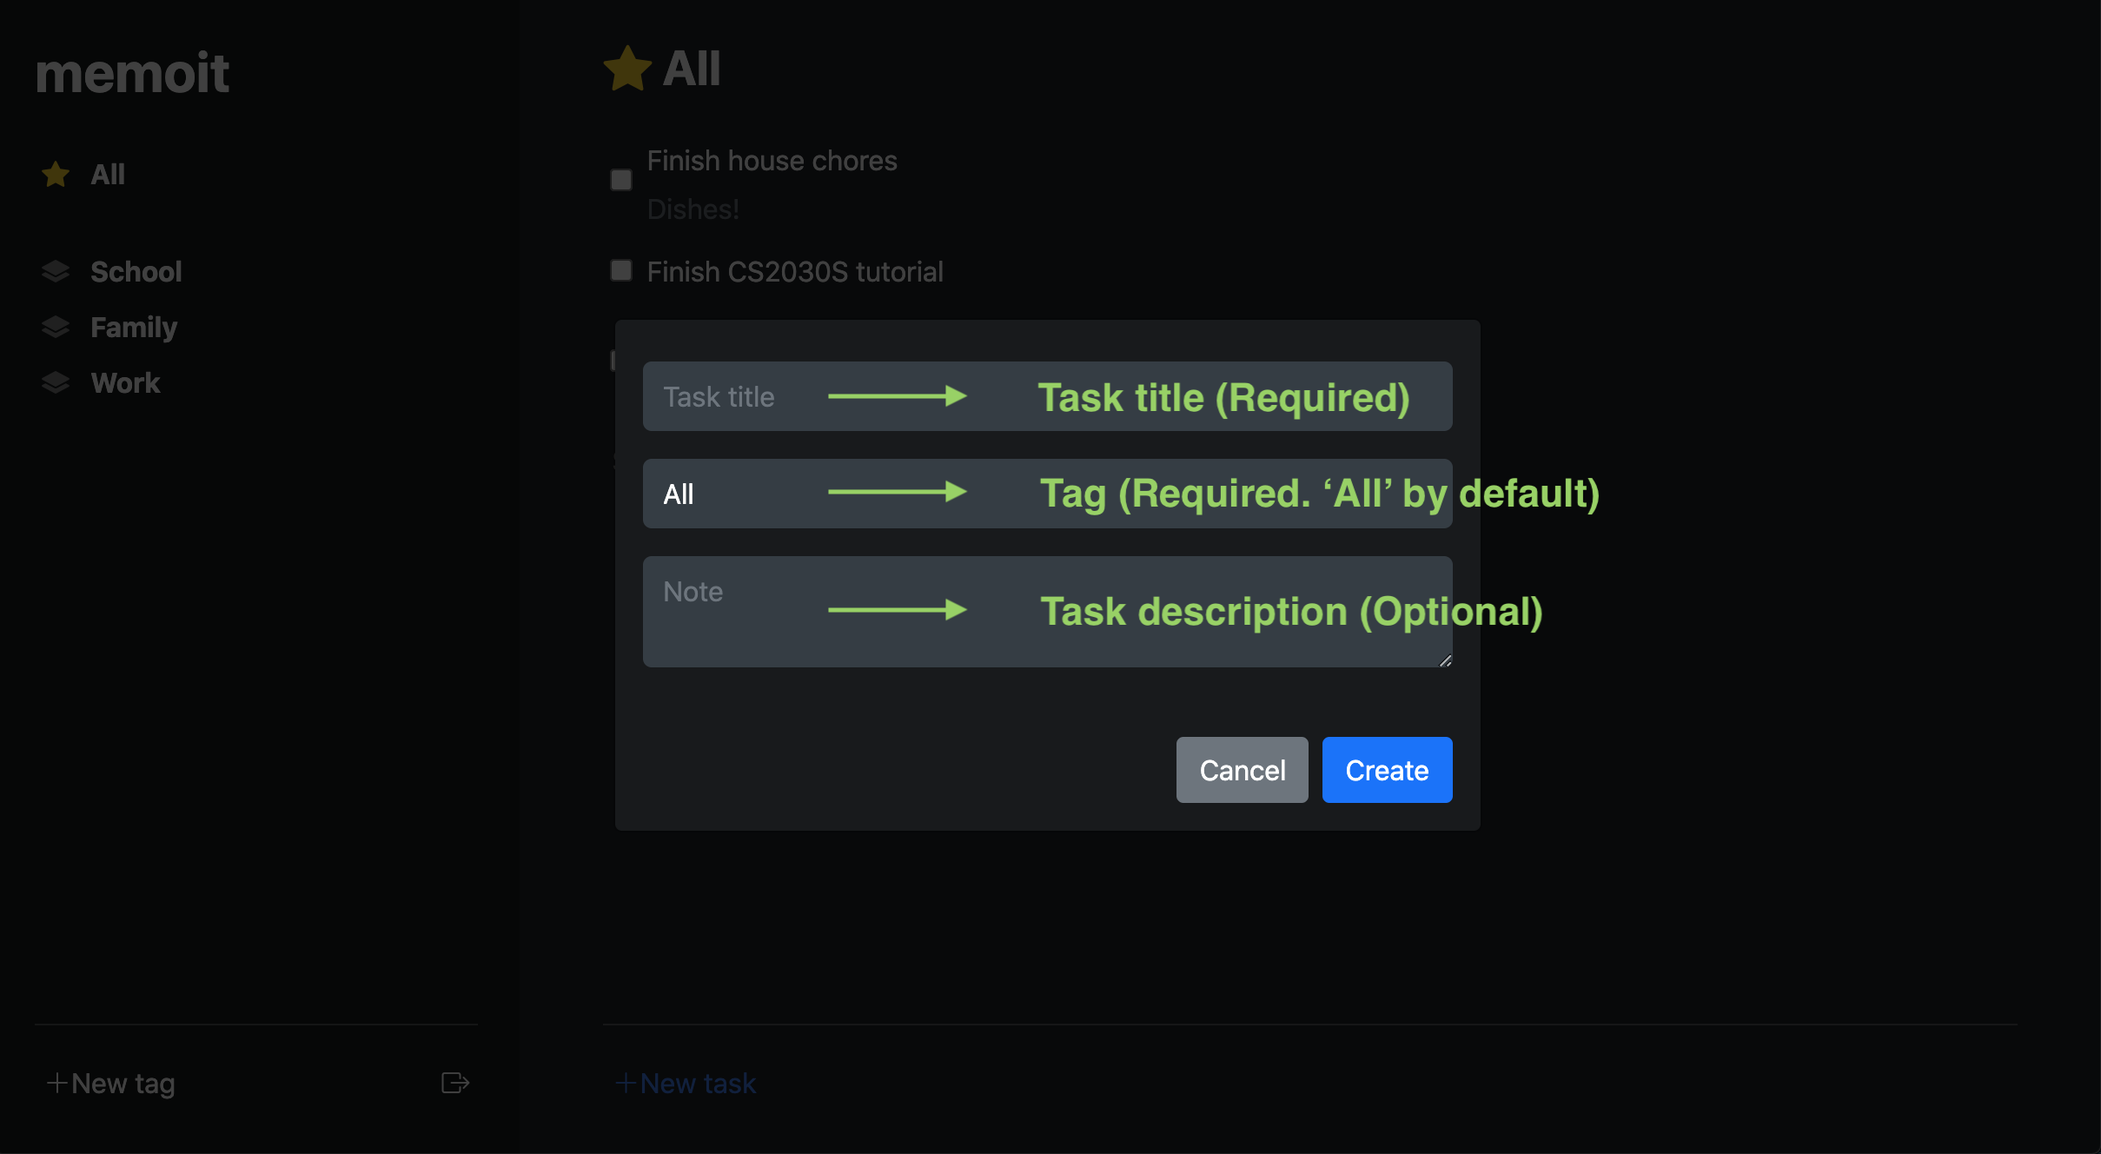
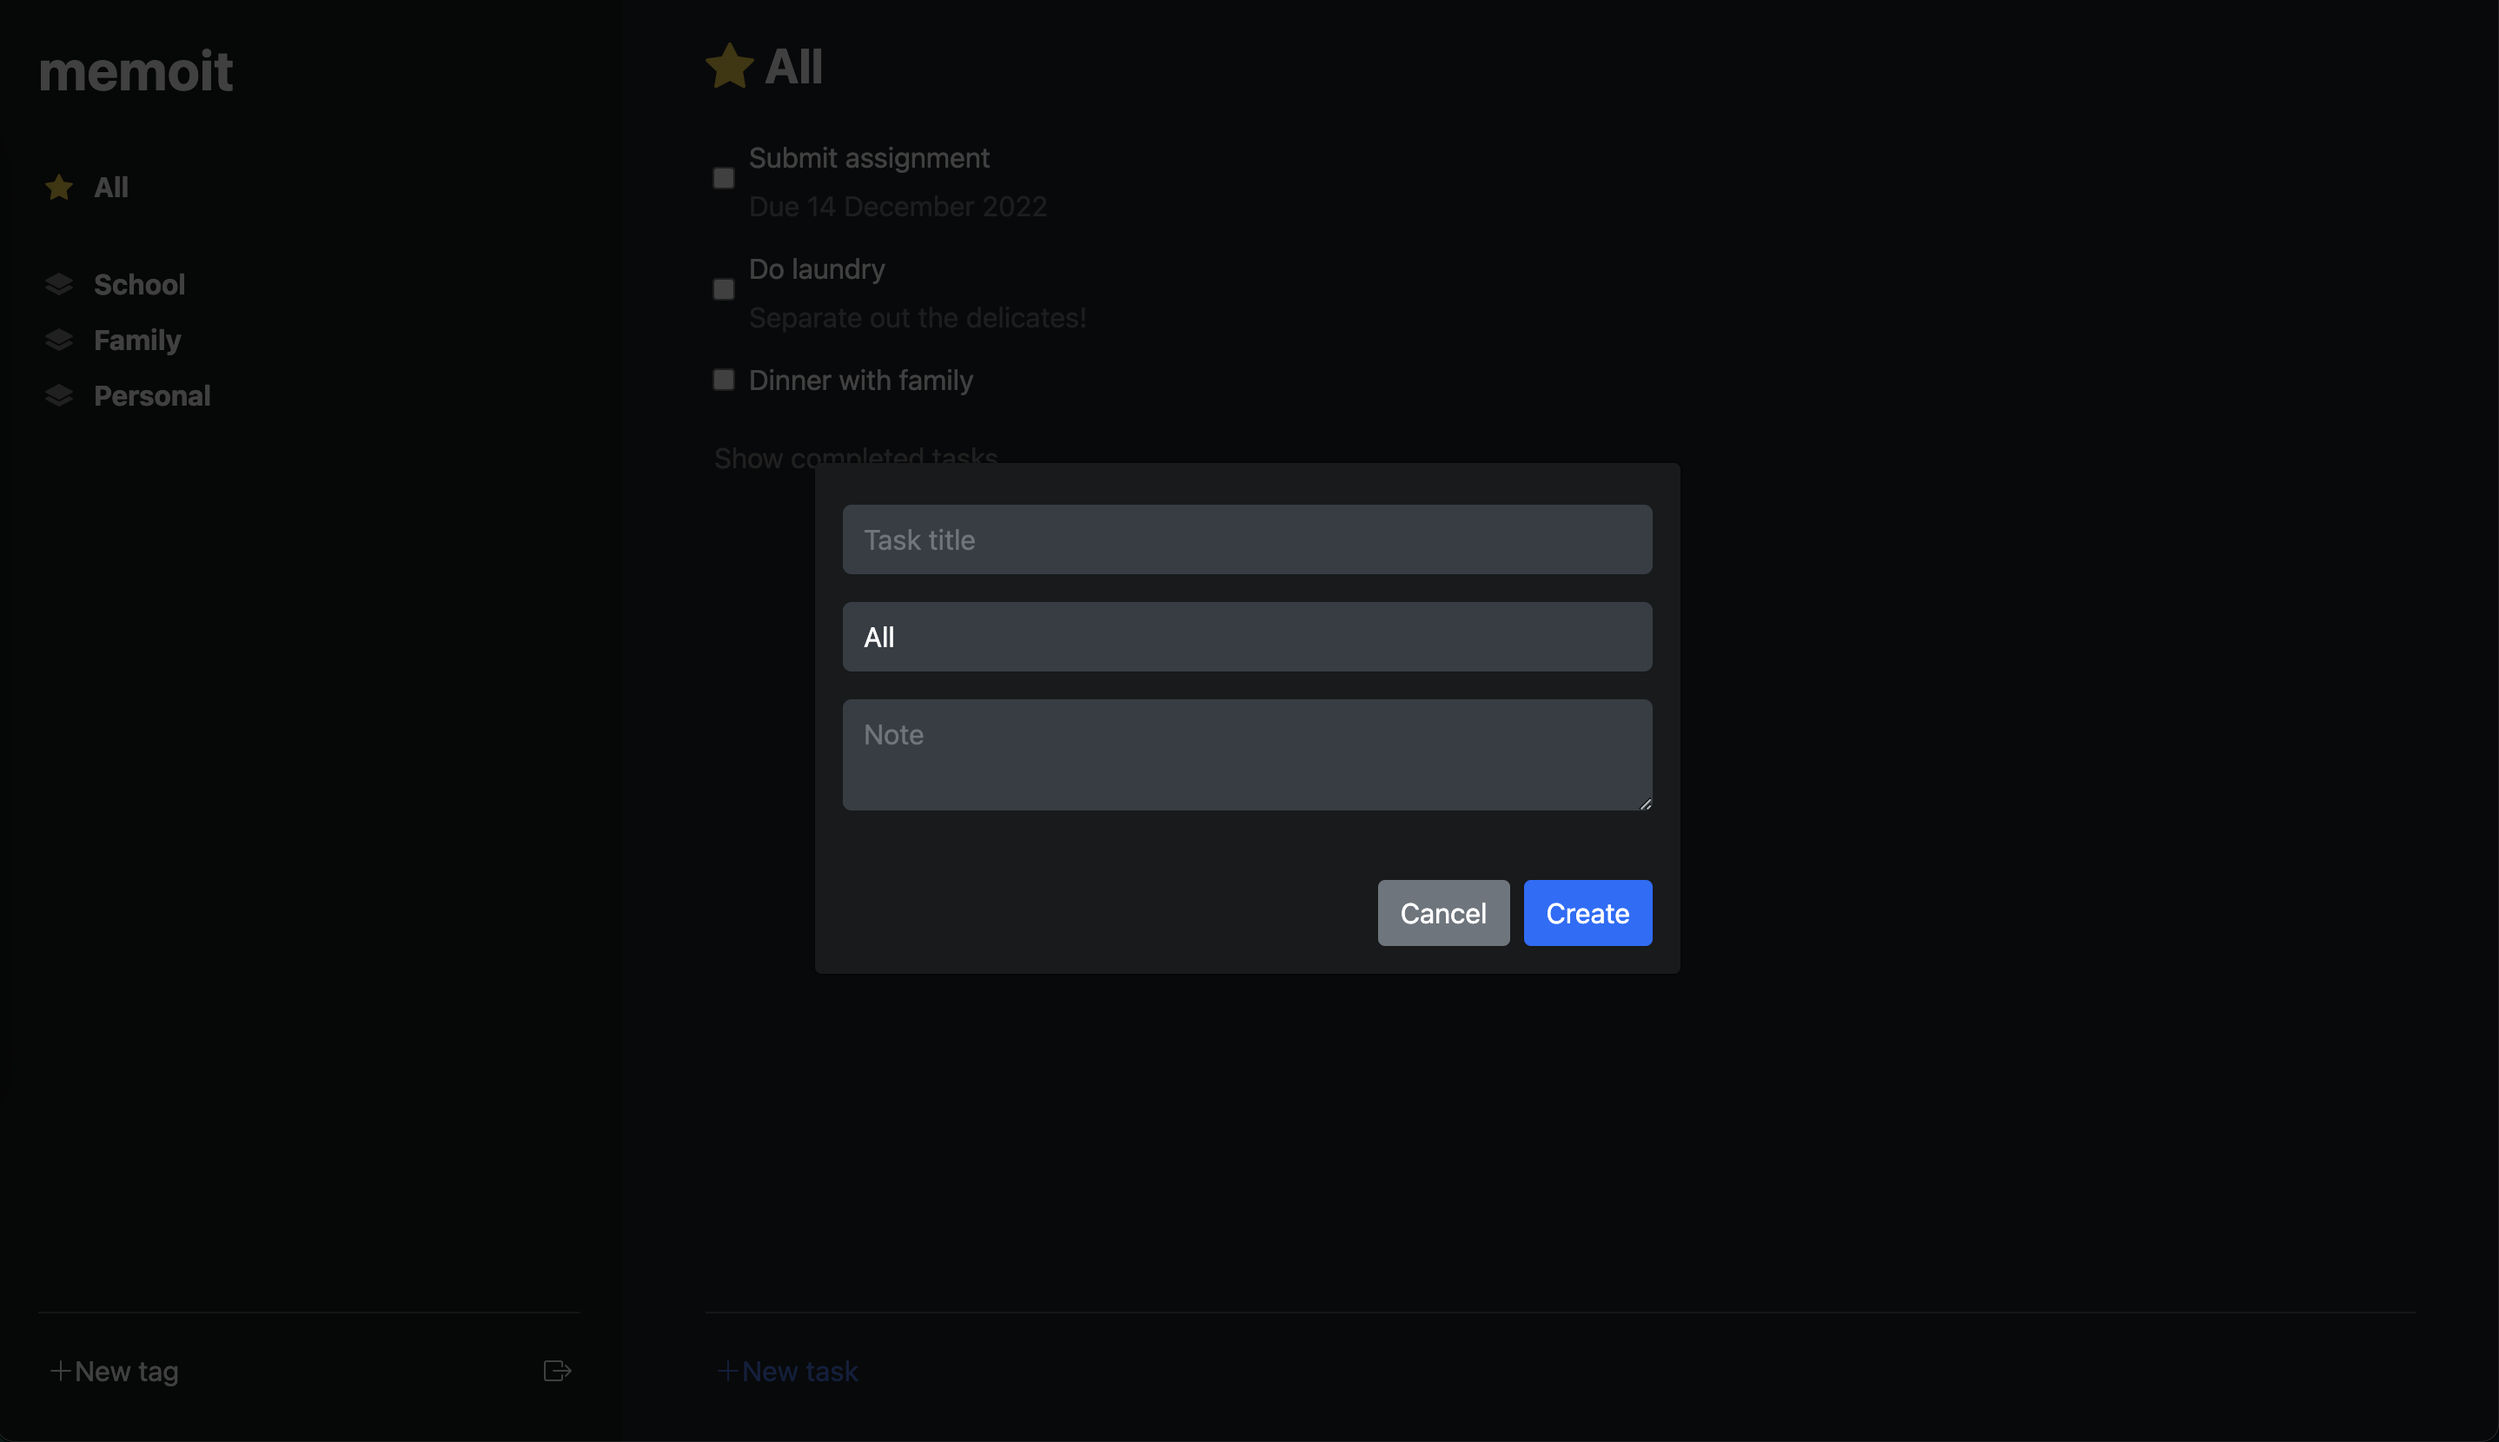
docs: add user guide

diff --git a/docs/UserGuide.md b/docs/UserGuide.md
@@ -4,12 +4,110 @@ title: User Guide
 toc: true
 ---
 
-1. Table of Contents
+## **About memoit**
+
+memoit is a **to-do list manager** web application designed to help anyone looking to record their daily tasks. As a user, you can easily **create, edit, and delete tasks**. Using memoit's **tagging system**, you can categorize tasks under specific tags. Finally, you can view your to-do list on **any web browser** through memoit's secure user authentication feature and mobile-friendly design.
+
+This user guide details how to use memoit on a daily basis. Get started now by heading over to the [Getting Started](#getting-started) section!
+
+---
+
+## **Table of Contents**
+{:.no_toc}
+
+- Table of Contents
 {:toc}
 
-## **Adding task**
+---
 
-this is some text
+## **Getting Started**
 
-1. this is a list
-2. this is a list
+**Visit memoit at [link]()!**
+
+After you open memoit, the application will appear as a login page.
+
+![login](images/user-guide/login.png)
+
+For first-time users, you can click on 'Register here' to create a new account for memoit as circled in the above image.
+
+If you have an account, enter your account credentials to log in.
+
+After logging into memoit, you will be brought to the dashboard where you can view all of your tasks.
+
+![dashboard](images/user-guide/dashboard.png)
+
+Congratulations! You can now start using memoit.
+
+---
+
+## **Adding Tasks**
+
+1. To add a new task, click on the 'New Task' button located at the bottom of the dashboard.
+2. Enter the following task details into their respective fields:
+
+   |             | Description                            | Required?              |
+   | ----------- | -------------------------------------- | ---------------------- |
+   | Name        | Name of the task                       | Yes                    |
+   | Tag         | Tag that the task is categorized under | Yes. 'All' by default. |
+   | Description | Description of the task                | No                     |
+
+   ![new-task](images/user-guide/new-task.png)
+
+3. Click on 'Create' to create the task. The task is now shown in the to-do list.
+
+---
+
+## **Marking Tasks as Completed**
+
+1. To mark a task as completed, click on the empty checkbox located on the left of the task.
+2. To view completed tasks, click on 'Show completed tasks'.
+3. To mark a task as incomplete, click on the ticked checkbox.
+
+---
+
+## **Editing Tasks**
+
+1. To edit the name, tag, or description of a task, hover your cursor over the task.
+2. Click on the 'Edit Task' icon as circled in the image below.
+   ![task](images/user-guide/task.png)
+
+3. You can now edit the details of task.
+   ![edit-task](images/user-guide/edit-task.png)
+
+4. Click on 'Update' to update the task. The task is now be updated in the to-do list.
+
+---
+
+## **Deleting Tasks**
+
+1. To delete a task, hover your cursor over the task.
+2. Click on the 'Delete Task' icon as circled in the image below.
+   ![task](images/user-guide/task.png)
+
+3. The task is now deleted from the to-do list.
+
+---
+
+## **Adding Tags**
+
+1. To add a new tag, click on 'New tag' located at the bottom of the left sidebar.
+2. Enter the name of the tag and click on the 'Create' icon.
+3. The new tag is now shown in the left sidebar.
+
+---
+
+## **Deleting Tags**
+
+1. To delete a tag, hover your cursor over the tag.
+2. Click on the 'Delete Tag' icon as circled in the image below.
+   ![delete-tag](images/user-guide/delete-tag.png)
+
+3. Note that **all tasks under this tag** will be deleted as well.
+4. Confirm your deletion by clicking 'OK' in the confirmation prompt.
+5. The tag and its associated tasks are now deleted from the to-do list.
+
+---
+
+## **Exiting memoit**
+
+1. To log out of memoit, click on the 'Log out' icon located at the bottom of the left sidebar.
